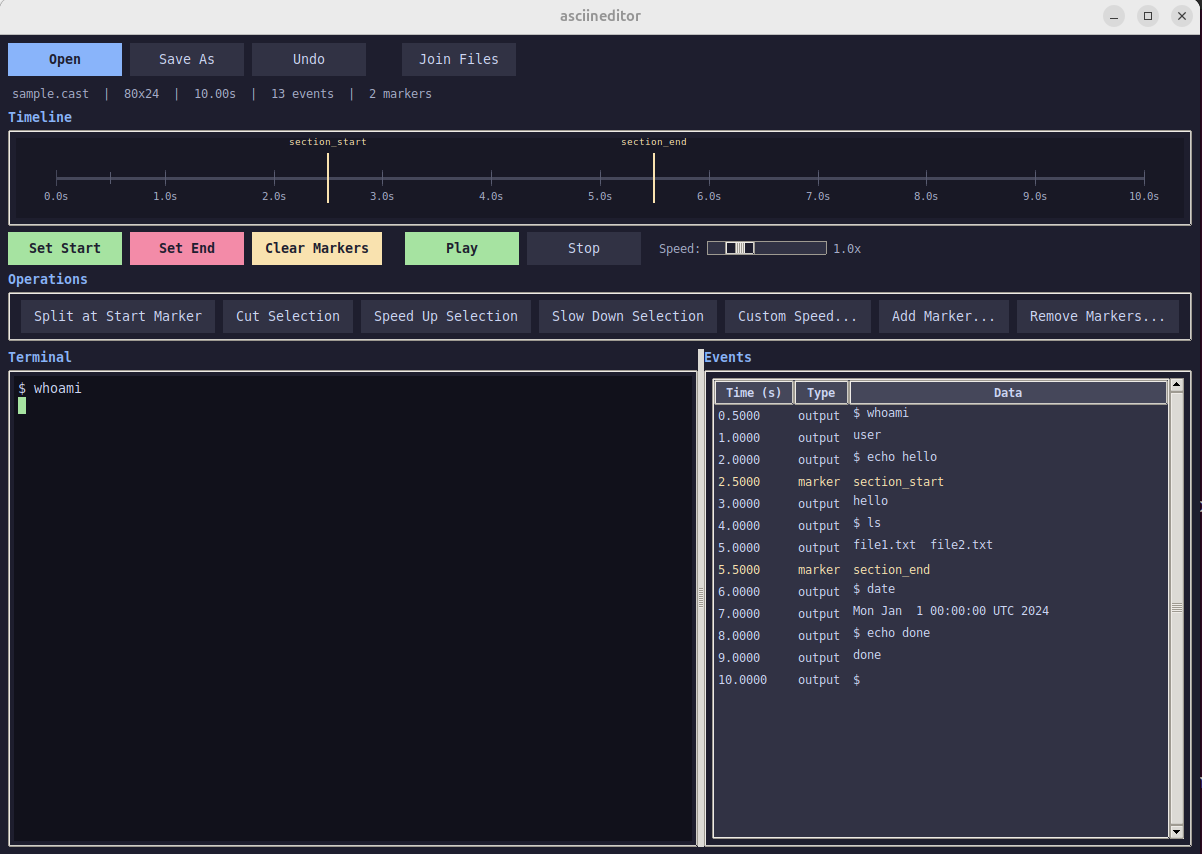
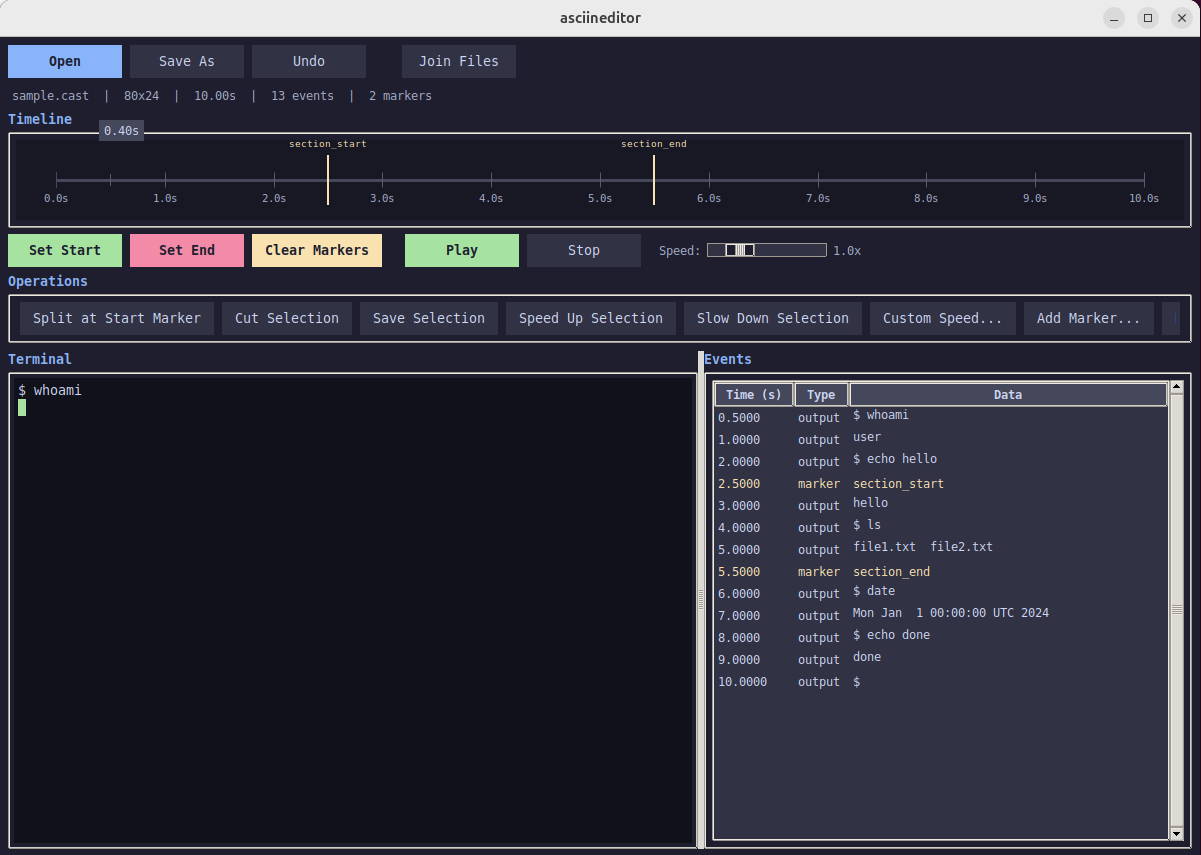
Add Save Selection feature to GUI
- New button exports selected region to a separate .cast file
- Timestamps are re-zeroed so saved selection starts at 0
- Update README with feature documentation and new screenshot

Changed region(s): [[0.0, 0.0, 1.0, 1.0]]

diff --git a/asciineditor_gui.py b/asciineditor_gui.py
@@ -492,6 +492,8 @@ class AsciineditorGUI:
                    command=self.do_split).pack(side=tk.LEFT, padx=4)
         ttk.Button(ops_inner, text="Cut Selection",
                    command=self.do_cut).pack(side=tk.LEFT, padx=4)
+        ttk.Button(ops_inner, text="Save Selection",
+                   command=self.do_save_selection).pack(side=tk.LEFT, padx=4)
         ttk.Button(ops_inner, text="Speed Up Selection",
                    command=lambda: self.do_speed(2.0)).pack(side=tk.LEFT, padx=4)
         ttk.Button(ops_inner, text="Slow Down Selection",
@@ -1132,6 +1134,36 @@ class AsciineditorGUI:
         messagebox.showinfo("Cut",
                             f"Cut {start_ts:.3f}s - {end_ts:.3f}s\n"
                             f"Removed {removed} events ({cut_duration:.3f}s)")
+
+    def do_save_selection(self):
+        if not self._require_selection():
+            return
+        self.play_stop()
+
+        start_ts, end_ts = self.start_marker, self.end_marker
+        selected = [ev for ev in self.events if start_ts <= ev[0] <= end_ts]
+        if not selected:
+            messagebox.showinfo("Info", "No events in the selected region.")
+            return
+
+        # Re-zero timestamps so the saved file starts at 0
+        result = [[ev[0] - start_ts, ev[1], ev[2]] for ev in selected]
+
+        base, ext = os.path.splitext(self.file_path or "recording.cast")
+        path = filedialog.asksaveasfilename(
+            title="Save Selection",
+            initialfile=f"{os.path.basename(base)}_selection{ext}",
+            defaultextension=".cast",
+            filetypes=[("Asciicast files", "*.cast"), ("All files", "*.*")])
+        if not path:
+            return
+
+        h = copy.deepcopy(self.header)
+        update_duration(h, result)
+        write_cast(path, h, result)
+        messagebox.showinfo("Save Selection",
+                            f"Saved {len(result)} events ({end_ts - start_ts:.3f}s)\n"
+                            f"to {path}")
 
     def do_speed(self, factor):
         if not self._require_selection():

diff --git a/README.md b/README.md
@@ -10,6 +10,7 @@ A command-line and GUI editor for [asciicast v2](https://docs.asciinema.org/manu
 - **Join** — Concatenate multiple recordings into a single file with configurable gaps
 - **Cut** — Remove a section between two points (by timestamp or marker)
 - **Speed** — Change playback speed of a specific section while keeping the rest unchanged
+- **Save Selection** — Export a selected region to a new file (GUI only)
 - **Add / Remove Markers** — Insert or delete named marker events in recordings
 - **GUI with Terminal Playback** — Visual timeline, integrated terminal display with ANSI color rendering, and synchronized event list
 
@@ -135,7 +136,7 @@ asciineditor-gui
 2. **Play** the recording to preview it in the terminal display
 3. **Click the timeline** to seek to any point (also renders the terminal at that moment)
 4. Use **Set Start** / **Set End** to select a region on the timeline
-5. Apply an operation: **Cut**, **Speed Up**, **Split**, etc.
+5. Apply an operation: **Cut**, **Speed Up**, **Split**, **Save Selection**, etc.
 6. **Undo** if needed (up to 30 levels)
 7. **Save As** to write the result
 
